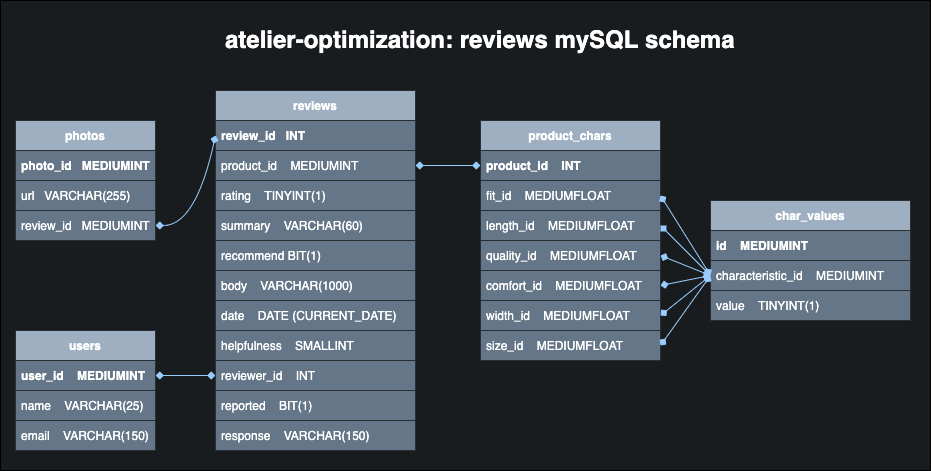
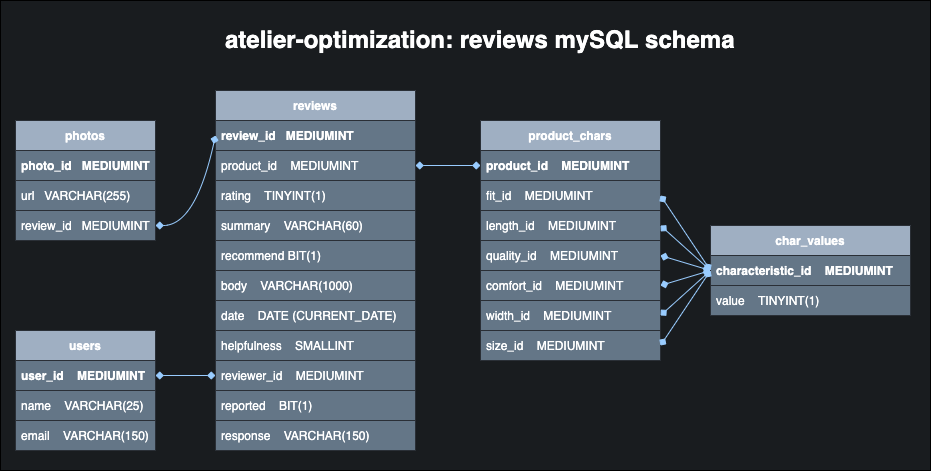
add GET reviews route and begin work on mysql query. organize data model files. update README

diff --git a/server/routes/reviews.js b/server/routes/reviews.js
@@ -1,0 +1,61 @@
+/* eslint-disable camelcase */
+const db = require('../../database');
+
+module.exports = {
+  get: (req, res) => {
+    let { page, count, sort, product_id } = req.query;
+
+    if (!product_id) { res.status(400).send('Error: no product ID specified.'); }
+    page = page || 1;
+    count = count || 5;
+    sort = sort || 'newest';
+
+    let sortColumn = 'review_date asc';
+    if (sort === 'helpful') { sortColumn = 'helpfulness desc'; }
+    if (sort === 'relevant') { sortColumn = 'helpfulness desc, review_date asc'; }
+
+    console.log('\nrequest parameters: ', req.query);
+    console.log('page, sort, count: ', page, sort, count, '\n');
+
+    const sql = `SELECT * FROM reviews JOIN photos ON photos.review_id = reviews.review_id
+      WHERE product_id = ${product_id} AND reported = (0) ORDER BY ${sortColumn} LIMIT ${count}`;
+
+    db.connection.query(sql, (error, results) => {
+      if (error) {
+        res.status(400).send(error);
+      }
+
+      console.log(results);
+
+      const reviews = results.map((result) => {
+        const { review_id, rating, summary, response, body, review_date, helpfulness, reviewer_id } = result;
+        let { recommend } = result;
+        recommend.toJSON().data[0] === 0 ? recommend = false : recommend = true;
+
+        return {
+          review_id: review_id,
+          rating: rating,
+          summary: summary,
+          recommend: recommend,
+          response: response ? response : '',
+          body: body,
+          date: review_date,
+          //reviewer_name: TODO,
+          helpfulness: helpfulness,
+          //photos: TODO
+        };
+
+      });
+
+      const responseObject = {
+        product: product_id,
+        page: 0, //TODO
+        count: count, //TODO
+        results: reviews
+      };
+
+      res.status(200).json(responseObject);
+    });
+  }
+
+};

diff --git a/server/index.js b/server/index.js
@@ -1,9 +1,15 @@
 const express = require('express');
 const app = express();
 const path = require('path');
+const router = require('express').Router();
+const routes = require('./routes');
 
 const port = 8008;
 
-app.use('/', express.static(path.join(__dirname, 'dist')));
+
+app.get('/reviews', (req, res) => {
+  routes.reviews.get(req, res);
+});
+
 
 app.listen(port, () => { console.log(`Listening at http://localhost:${port}`); });

diff --git a/server/routes/index.js b/server/routes/index.js
@@ -1,0 +1,2 @@
+exports.reviews = require('./reviews.js');
+

diff --git a/README.md b/README.md
@@ -8,26 +8,88 @@ The reviews service is designed using a an Express server and a mySQL database.
 
 [reviews API](#reviews-api) |
 [data model](#data-model) |
-[ETL process](#etl-process)
+[ETL process](#etl-process) |
+[technologies](#dependencies) |
+[project journal](#project-journal)
 
 </div>
 
 # **reviews API**
 
-API endpoints here
+The shape of result data was to maintain the  shape of data as was originally returned in the previous API.
+
+The API is outlined below:
+
+> ### **List Reviews**
+>`GET /reviews`
+
+>| Parameter | Type | Description |
+>| --------- | ---- | ----------- |
+>| page | integer | Selects the page of results >to return. Default 1. |
+>|count|integer|Specifies how many results per >page to return. Default 5.|
+>|sort|text|Changes the sort order of reviews to >be based on "newest", "helpful", or "relevant"|
+>|product_id|integer|Specifies the product for which to retrieve reviews.|
+
+>`Response: 200 OK`
+
+```
+{
+  "product": "2",
+  "page": 0,
+  "count": 5,
+  "results": [
+    {
+      "review_id": 5,
+      "rating": 3,
+      "summary": "I'm enjoying wearing these shades",
+      "recommend": false,
+      "response": null,
+      "body": "Comfortable and practical.",
+      "date": "2019-04-14T00:00:00.000Z",
+      "reviewer_name": "shortandsweeet",
+      "helpfulness": 5,
+      "photos": [{
+          "id": 1,
+          "url": "urlplaceholder/review_5_photo_number_1.jpg"
+        },
+        {
+          "id": 2,
+          "url": "urlplaceholder/review_5_photo_number_2.jpg"
+        },
+        // ...
+      ]
+    },
+    {
+      "review_id": 3,
+      "rating": 4,
+      "summary": "I am liking these glasses",
+      "recommend": false,
+      "response": "Glad you're enjoying the product!",
+      "body": "They are very dark. But that's good because I'm in very sunny spots",
+      "date": "2019-06-23T00:00:00.000Z",
+      "reviewer_name": "bigbrotherbenjamin",
+      "helpfulness": 5,
+      "photos": [],
+    },
+    // ...
+  ]
+}
+```
 
 # **data model**
 
-current version: 3.0, 1/17/22
+final version: 4.0, 1/17/22
 
-![Data Model version 2](./data_models/sql-modelv5.png)
+![Data Model version 4](./data_models/sql-modelv4.png)
 
 Version History
-- [v 2.0][version1] 1/11/22
+- [v 3.0][version2] 1/12/22
+- [v 2.0][version2] 1/11/22
 - [v 1.0][version1] 1/10/22
 
+[version3]: ./data_models/sql-modelv3.png
+[version2]: ./data_models/sql-modelv2.png
 [version1]: ./data_models/sql-modelv1.png
-[version2]: ./data_models/sql-modelv4.png
 
 # **ETL Process**
 
@@ -35,7 +97,27 @@ After building the new back end architecture, existing data had to be migrated o
 
 A custom-built extract, transform, load process was built first using only Bash scripts and then additionally using node. The process was unacceptably slow at the beginning, but after a few iterations and optimization, an acceptable ingestion rate was achieved.
 
-### **Version 1: Bash**
+### **version 1: Bash**
 
 - Bash was used to extract, validate, and insert data into the mySQL database.
+- [Insert Data Points] First load rate was 18 records inserted per second (12 fields)
 
+### **version 2: node/JS**
+
+- Bash was a fine solution to split up the .CSV files by line but beyond that, required too much time to build and optimize.
+- node.js (native modules: filesystem, readline, and npm module mysql2) was used to create a read stream to build bulk mySQL queries. Inserting 5,000 values per query was quick to transform and quick to load.
+- [Insert Data Points] Final load rate was 36k records inserted per second (12 fields)
+
+# **technologies**
+
+- built using node.js
+  - node modules: filesystem, readline, mysql2
+- server built with Express
+
+> TO UPDATE:
+- Deployed using AWS EC2
+- Docker
+
+# **project journal**
+
+You can read a daily record of engineering notes for this project [here](https://vagabond-papaya-2c5.notion.site/36e2556afa6849c488e6ff99cf762ab5?v=c6bd8b96f66a4c37b43d2ee8c08bfc5f).
